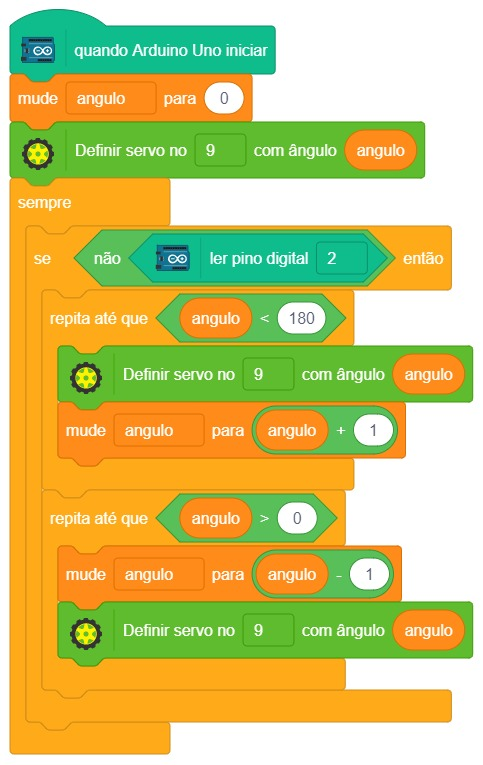
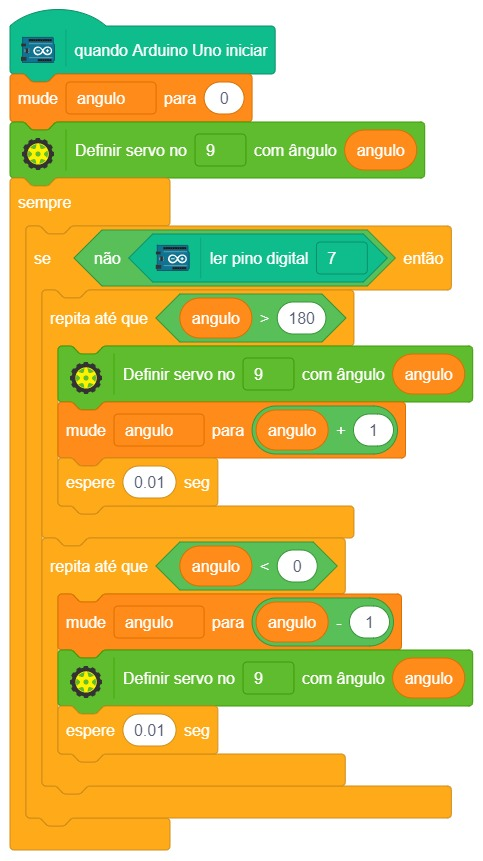
Projeto 9
- Corrigido o programada do pictoblox do projeto 8;
- Inserido o projeto 9.

diff --git a/Projeto9/ArduinoIDE/ArduinoIDE.cpp b/Projeto9/ArduinoIDE/ArduinoIDE.cpp
@@ -1,7 +1,19 @@
+// Projeto 9 - Controlando um Motor
+#include <Servo.h>
+
+Servo meuServo;
+int pinoPot = A0;
+int valorPot;
 
 void setup()
 {
+  meuServo.attach(9);
 }
+
 void loop()
 {
+  valorPot = analogRead(pinoPot);
+  valorPot = map(valorPot, 0, 1023, 0, 180); // mapeia os valores do potenciometro (entre 0 e 1023) para os valores do servo (entre 0 e 180)
+  meuServo.write(valorPot);                  // manda o valor para o servo
+  delay(15);
 }

diff --git a/Projeto9/README.md b/Projeto9/README.md
@@ -1,1 +1,60 @@
-# Em Breve
+# Controlando o motor
+
+<div style="display: inline_block">
+  <img src="https://img.shields.io/badge/Arduino-Uno-blue">
+</div>
+
+Já vimos no projeto 7 como funciona um potenciômetro e no projeto 8 como funciona um servo motor. No projeto 9, veremos como utilizar esses dois componentes em conjunto controlando o servo através da rotação do potenciômetro.
+
+![LEDblink](img/im1.png)
+
+É interessante observar como os dois componentes utilizam portas analógicas. Com isso podemos ler diversos valores no potenciômetro e mandar esses valores diversos para o motor. Não é apenas um comando de ligado e desligado, como no Projeto 5 Interruptor de luz.
+
+## Material Necessário
+
+- 1x Servo 9g
+- 1x Potenciômetro 10K ohm
+- 8x Jumper macho-macho
+- 1x Cabo USB
+- 1x Placa Arduino Uno
+
+## Montagem do circuito
+
+Como já visto no projeto 8, o servo possui três fios para sua utilização e na extremidade desses fios um conector de 3 pinos fêmea. O fio marrom do servo deve ser conectado ao GND, o fio vermelho ao 5 V e o fio laranja ao pino 9 do Arduino. Para conectar o servo basta utilizar 3 jumpers macho-macho. Também acompanha algumas hastes e parafusos. Não é necessário parafusar as hastes ao servo, apenas um encaixe já basta.
+Adicione também na montagem o potenciômetro, como visto no Projeto 7.
+
+![montageExample](img/im2.png)
+
+## Programação
+
+O programa consiste em ler o valor de rotação do potenciômetro e controlar a rotação do servo de acordo.
+
+### Para PictoBlox
+
+A programação de blocos pode ser vista na figura a baixo.
+
+![main](PictoBlox/main.png)
+
+### Para ArduinoIDE
+
+O código para programação na interface ArdunoIDE pode ser encontrado [aqui](ArduinoIDE/ArduinoIDE.cpp).
+
+## Possíveis erros
+
+Caso o projeto não funcione verifique alguns dos possíveis erros:
+
+- Verifique se os jumpers estão na mesma coluna dos terminais dos componentes, fazendo assim a conexão;
+- Verifique se os jumpers estão ligados nos pinos corretos no Arduino;
+- Verifique se as conexões do servo estão corretas, fio marrom no GND, fio vermelho no 5V e laranja no pino 9;
+- Verifique se os pinos do potenciômetro estão bem inseridos na protoboard;
+- Verifique se o código carregou na placa através da IDE Arduino.
+
+## Formulário da Turma 602
+
+[Clique aqui](https://forms.gle/4mMvR9zjSB166SXn7)
+
+## Desafios
+
+Veja abaixo alguns desafios que você pode tentar!
+
+- Mude o programa para que o servo gire apenas entre os angulos 50 e 110 graus.
